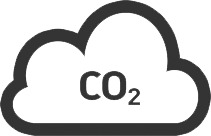
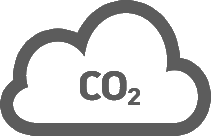
Ajuste - Index
Alterado um quantificador de R$ para CO2/Kg economizado.

Changed region(s): [[0.0, 0.0, 1.0, 1.0], [0.3697, 0.5, 0.6825, 0.7647]]

diff --git a/index.html b/index.html
@@ -132,11 +132,11 @@
                         <div class="card p-30">
                             <div class="media">
                                 <div class="media-left meida media-middle">
-                                    <span><img src="images/co2_icon.png" /></span>
+                                    <span><img src="images/co2_icon.png" style="width: 50px;" /></span>
                                 </div>
                                 <div class="media-body media-text-right">
-                                    <h2>R$ 1.253,21</h2>
-                                    <p class="m-b-0">Bônus Distribuido</p>
+                                    <h2>345,26 Kg</h2>
+                                    <p class="m-b-0">CO2 Economizado</p>
                                 </div>
                             </div>
                         </div>
